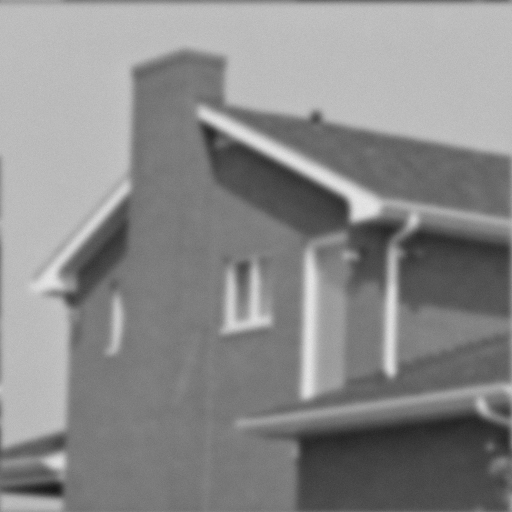
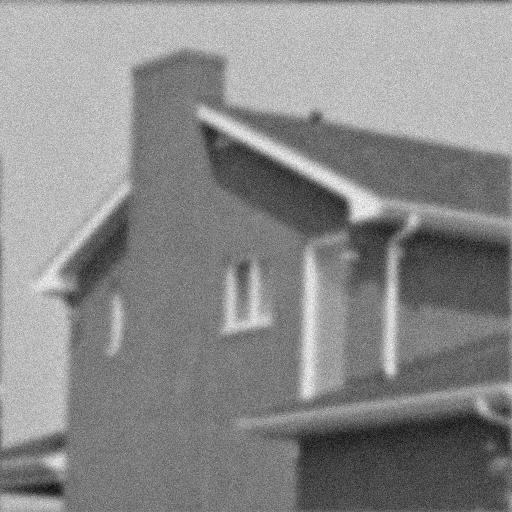
deblur: declare final param ranges, drop maintainer references
Forward model now declares sigma ~ U(0, 3.5) and sigma_n ~ U(5, 15)
(per-frame i.i.d.) instead of leaving the ranges undisclosed. Dataset
images regenerated with these values. Internal-facing "mantenedor"
mentions removed from problem statement and SUBMISSION.md.

diff --git a/2026-05-deblur/reference/wiener.py b/2026-05-deblur/reference/wiener.py
@@ -2,10 +2,10 @@
 """
 Reference deblur solver - intentionally simple baseline.
 
-Reads a 24-bit grayscale BMP from stdin (image blurred by a Gaussian PSF of
-unknown per-frame sigma, plus additive sensor noise of unknown intensity),
-applies a Wiener filter with maintainer-chosen fixed sigma and regularization,
-and writes the deblurred BMP to stdout.
+Reads a 24-bit grayscale BMP from stdin (image blurred by a Gaussian PSF
+with per-frame sigma in U(0, 3.5), plus additive Gaussian sensor noise with
+per-frame stddev in U(5, 15)), applies a Wiener filter with fixed sigma and
+regularization, and writes the deblurred BMP to stdout.
 
 This baseline does NOT estimate any per-frame parameters. It's deliberately
 naive: the same fixed sigma and lambda are used for every frame, regardless
@@ -23,7 +23,7 @@ import numpy as np
 sys.path.insert(0, str(Path(__file__).parent))
 import bmp_io  # noqa: E402
 
-SIGMA_FIXED = 2.5     # maintainer's fixed kernel-width guess (no adaptation)
+SIGMA_FIXED = 2.5     # fixed kernel-width guess (no adaptation)
 LAMBDA = 0.005        # Wiener regularization, also fixed
 
 

diff --git a/2026-05-deblur/reference/generate.py b/2026-05-deblur/reference/generate.py
@@ -11,9 +11,9 @@ The forward model matches what the reference solver assumes:
     blurred = IFFT( FFT(sharp) * FFT(gaussian_psf(sigma_i)) ) + N(0, NOISE_SIGMA)
 
 with ``sigma_i`` drawn deterministically per image from
-``rng(SIGMA_RNG_SEED + i)``. The actual sigmas are printed to stderr for the
-maintainer to verify reference performance — they are NOT shipped with the
-dataset (participants face the problem blind, only knowing the range).
+``rng(SIGMA_RNG_SEED + i)``. The actual sigmas are printed to stderr at
+generation time (handy for debug/verification) but are NOT shipped with the
+dataset — participants get only the declared ranges.
 
 Sources cached locally in ``reference/originals/``. Re-running the script with
 the cache populated skips the network entirely.

diff --git a/2026-05-deblur/reference/README.md b/2026-05-deblur/reference/README.md
@@ -1,22 +1,22 @@
 # Ferramentas de referência
 
 Implementação de referência + utilitários para gerar o dataset e rodar o
-benchmark. **Não é uma submissão** - só serve como baseline e ferramenta
-do mantenedor.
+benchmark. **Não é uma submissão** - só serve como baseline e tooling
+auxiliar.
 
 ## Conteúdo
 
 - `bmp_io.py` - leitor/escritor estrito de BMP 24-bit grayscale (R=G=B)
-- `wiener.py` - solver Wiener com **parâmetros pré-escolhidos pelo
-  mantenedor** (não adapta ao frame), lê stdin, escreve stdout. Baseline
+- `wiener.py` - solver Wiener com **parâmetros fixos** (não adapta ao
+  frame), lê stdin, escreve stdout. Baseline
   intencionalmente burro: não estima nada a partir do frame.
 - `score.py` - calcula PSNR entre dois BMPs (usado pelo bench harness)
 - `generate.py` - baixa as imagens originais, normaliza pra 512x512 cinza,
-  borra com PSF gaussiana de largura σ sorteada por frame + ruído aditivo
-  de intensidade σ_n também sorteada por frame, grava em `inputs/` e
-  `expected/`. Os parâmetros sorteados são impressos em stderr pra o
-  mantenedor verificar performance da referência - **não são shippados**
-  com o dataset (participantes recebem o problema cego).
+  borra com PSF gaussiana de largura `σ ~ U(0, 3.5)` sorteada por frame +
+  ruído aditivo gaussiano de desvio padrão `σ_n ~ U(5, 15)` também sorteado
+  por frame, grava em `inputs/` e `expected/`. Os σ sorteados são impressos
+  em stderr ao gerar (útil pra debug/verificação) mas **não são shippados**
+  com o dataset.
 - `Dockerfile` - empacota `wiener.py` como container, mesmo contrato das
   submissões (stdin -> stdout, **sem disco gravável**). Útil pra testar o
   `bench/run.sh` end-to-end antes de qualquer submissão real existir.
@@ -45,7 +45,7 @@ uv run --project 2026-05-deblur/reference \
     /tmp/house_out.bmp \
     2026-05-deblur/expected/house.bmp
 
-# 3. (Opcional, só mantenedor) Regenerar o dataset
+# 3. (Opcional) Regenerar o dataset
 uv sync --project 2026-05-deblur/reference --extra generate
 uv run --project 2026-05-deblur/reference \
     python 2026-05-deblur/reference/generate.py
@@ -61,8 +61,8 @@ também sorteada por frame:
 blurred = IFFT( FFT(sharp) * FFT(gaussian_psf(sigma_i)) ) + N(0, sigma_n_i^2)
 ```
 
-O solver de referência aplica Wiener com um σ_chute e um λ pré-escolhidos
-pelo mantenedor (sem adaptação ao frame):
+O solver de referência aplica Wiener com um σ_chute e um λ fixos
+(sem adaptação ao frame):
 
 ```
 F_hat = G * conj(H(σ_chute)) / (|H(σ_chute)|^2 + λ)
@@ -70,9 +70,9 @@ sharp_hat = IFFT(F_hat)
 ```
 
 Implementações de submissão **devem assumir o mesmo modelo direto** -
-convolução periódica (não zero-padded), ruído aditivo per-frame.
-Os valores numéricos dos parâmetros do gerador (faixa de σ, intensidade do
-ruído) **não são divulgados** - sua estratégia de inversão precisa estimar
-ou ser robusta a essa variação. A escolha da estratégia (Wiener com σ
-estimado, Richardson-Lucy, TV, rede neural leve, etc.) é com você. Isso é
-parte do contrato do problema (ver `../README.md`).
+convolução periódica (não zero-padded), ruído aditivo per-frame. As faixas
+dos parâmetros (`σ ~ U(0, 3.5)`, `σ_n ~ U(5, 15)`) estão declaradas em
+`../README.md` - sua estratégia de inversão precisa estimar o valor de
+cada frame ou ser robusta sobre toda a faixa. A escolha da estratégia
+(Wiener com σ estimado, Richardson-Lucy, TV, rede neural leve, etc.) é
+com você.

diff --git a/2026-05-deblur/README.md b/2026-05-deblur/README.md
@@ -60,14 +60,6 @@ Sua solução **não pode escrever em nenhum arquivo**.
 Apenas stdin de leitura, stdout/stderr de escrita, e RAM.
 Tentar escrever em qualquer lugar (incluindo `/tmp`, `~/.cache`, `/var/log`) falha com `EROFS`.
 
-Dicas pra não bater nessa parede:
-
-- **Python**: rode com `python -B` (ou `PYTHONDONTWRITEBYTECODE=1`) pra não tentar escrever `.pyc`.
-  Bibliotecas que cacheiam em `~/.cache` (matplotlib, numba JIT, etc.) podem falhar - pré-construa os caches no `Dockerfile`, não em runtime, ou use só `numpy` puro.
-- **C/C++ com FFTW**: `fftw_wisdom` por default escreve em arquivo.
-  Use apenas o wisdom embutido no binário ou desligue persistência.
-- **GPU**: indisponível no bench (não tem GPU no host).
-
 ### Caps duros (tempo e memória)
 
 Estourar qualquer um destes desclassifica a submissão:
@@ -109,17 +101,16 @@ Desempate (em ordem):
 ## Como o frame foi gerado
 
 Cada frame que sua solução recebe foi produzido a partir de uma imagem nítida pelo modelo abaixo.
-A **estrutura** do modelo é conhecida (e sua solução pode e deve explorá-la), mas os **parâmetros numéricos** - a largura do borrão, a intensidade do ruído, e como variam entre frames - **não são divulgados**.
-Sua solução precisa ser robusta a essa variação, idealmente estimando os parâmetros a partir do próprio frame que recebe, como uma câmera real faria.
+A **estrutura** e os **parâmetros do gerador** são conhecidos - sua solução pode e deve explorá-los.
+O que varia entre frames é o valor concreto sorteado dentro das faixas declaradas; cada frame tem o seu próprio σ e σ_n, e sua solução precisa lidar com essa variação (estimando per-frame ou rodando sobre toda a faixa).
 
 Componentes do modelo, na ordem em que se aplicam:
 
 1. Parte de uma imagem nítida `nitida` (uint8, 512x512 grayscale).
 2. **Borrão gaussiano periódico** aplicado via FFT: `borrada = IFFT( FFT(nitida) · FFT(kernel_σ) )`.
    A convolução é **circular** - a borda da imagem se enrola, o frame é tratado como um toro 512x512.
-   A largura σ do kernel pode variar entre frames.
-3. **Ruído aditivo do sensor** somado em cada pixel.
-   A intensidade e o caráter do ruído podem variar entre frames.
+   A largura `σ` é sorteada por frame, uniforme i.i.d. em **`U(0, 3.5)`**.
+3. **Ruído aditivo do sensor** somado em cada pixel: gaussiano branco i.i.d. de desvio padrão `σ_n`, sorteado por frame em **`U(5, 15)`** (na escala de pixel `[0, 255]`).
 4. Clipa em `[0, 255]` e quantiza para `uint8` -> arquivo BMP.
 
 O kernel gaussiano usado no passo 2 é construído como abaixo (numpy de referência; em outras linguagens, reproduzir o mesmo layout sob pena de errar a fase da deconvolução):
@@ -141,7 +132,7 @@ Equivalente: kernel gaussiano centrado em `(0, 0)`, periodicidade implícita 512
 
 ## A referência
 
-Em [`reference/wiener.py`](reference/wiener.py) mora um solver **intencionalmente burro**: aplica o filtro de Wiener com parâmetros pré-escolhidos pelo mantenedor, sem nenhuma adaptação ao frame que recebe.
+Em [`reference/wiener.py`](reference/wiener.py) mora um solver **intencionalmente burro**: aplica o filtro de Wiener com parâmetros fixos, sem nenhuma adaptação ao frame que recebe.
 É a forma mais ingênua de atacar o problema cego - quando os parâmetros reais do frame ficam perto dos chutes, o resultado sai razoável; quando se distanciam, sofre.
 
 A referência **não estima** nada a partir do frame.

diff --git a/2026-05-deblur/comece-aqui/README.md b/2026-05-deblur/comece-aqui/README.md
@@ -13,7 +13,7 @@ Esse processo de "ponto da cena vira mancha no sensor" tem nome: **convolução*
 A mancha em si - o formato como um único ponto se espalha - se chama **kernel**, ou **PSF** (point spread function, "função de espalhamento de ponto").
 No caso do drone do desafio, a PSF é aproximadamente uma gaussiana: uma manchinha redonda, mais densa no centro, esmaecendo nas bordas.
 A "largura" dessa gaussiana é o parâmetro `σ` (sigma) - quanto maior σ, mais espalhada a mancha, mais borrada a imagem.
-O σ varia entre frames e **não é divulgado**: sua solução precisa estimá-lo a partir da própria imagem que recebe, ou ser robusta a uma faixa de valores.
+O σ é sorteado por frame em `U(0, 3.5)` (faixa declarada na [spec](README.md#como-o-frame-foi-gerado)): a faixa é conhecida, mas o valor exato de cada frame não - sua solução estima o σ a partir da imagem ou roda sobre toda a faixa.
 
 Visualmente, três níveis de borrão na mesma imagem:
 
@@ -94,7 +94,7 @@ A intuição:
 
 Calibrar lambda é parte da arte, e idealmente depende da intensidade do ruído e da intensidade do borrão.
 
-A referência que vem no repo ([`reference/wiener.py`](reference/wiener.py)) usa um `lambda` e um kernel pré-escolhidos pelo mantenedor, sem nenhuma adaptação ao frame que recebe.
+A referência que vem no repo ([`reference/wiener.py`](reference/wiener.py)) usa um `lambda` e um kernel fixos, sem nenhuma adaptação ao frame que recebe.
 Esse é o **Wiener cego ingênuo**: como ele não estima nada, quando os parâmetros reais do frame ficam perto desses chutes o resultado sai razoável; quando se distanciam, sofre.
 
 ## Por onde sua solução pode melhorar
@@ -103,7 +103,7 @@ A referência ignora pelo menos duas coisas que sua solução pode atacar:
 
 ### 1. Estimar o σ do frame
 
-O σ varia entre frames e não é divulgado, mas o Wiener da referência aplica o mesmo σ pra todo mundo.
+O σ varia entre frames dentro de `U(0, 3.5)`, mas o Wiener da referência aplica o mesmo σ pra todo mundo.
 Se você consegue estimar o σ verdadeiro a partir da imagem borrada que recebeu, já melhora significativamente.
 Algumas técnicas clássicas:
 
@@ -126,8 +126,8 @@ Em 200 ms você não roda 50 iterações de Richardson-Lucy, mas 3 a 5 passos po
 ## Pra continuar
 
 - A spec completa do desafio está no [README](README.md).
-- O modelo de geração do frame - a estrutura matemática do borrão e do ruído - está documentado na seção "[Como o frame foi gerado](README.md#como-o-frame-foi-gerado)".
-  Sua solução **pode e deve** explorar essa estrutura - mesmo que os parâmetros numéricos não sejam revelados, a forma do problema é conhecida.
+- O modelo de geração do frame - a estrutura matemática do borrão e do ruído, e as faixas dos parâmetros - está documentado na seção "[Como o frame foi gerado](README.md#como-o-frame-foi-gerado)".
+  Sua solução **pode e deve** explorar essa estrutura.
 - O código de referência está em [`reference/wiener.py`](reference/wiener.py) - leitura curta, ~50 linhas de Python + numpy.
   Boa primeira leitura pra ver o pipeline FFT -> filtro -> IFFT acontecendo na prática.
 

diff --git a/SUBMISSION.md b/SUBMISSION.md
@@ -98,7 +98,7 @@ GitHub e abrir o PR pelo botão. Os comandos de branch/commit/push são iguais.
 
 ## Validação manual
 
-Sem CI por enquanto - o mantenedor valida local e responde no PR (pode
+Sem CI por enquanto - a validação roda local e a resposta sai no PR (pode
 levar alguns dias). Se a submissão for desclassificada (não passa a
 validação do desafio, ou estoura algum cap declarado), você fica sabendo
 no PR e pode corrigir empurrando um novo commit no mesmo branch.
